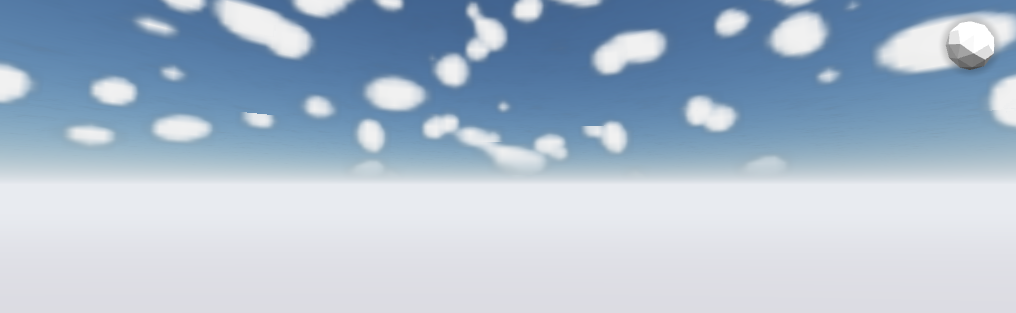
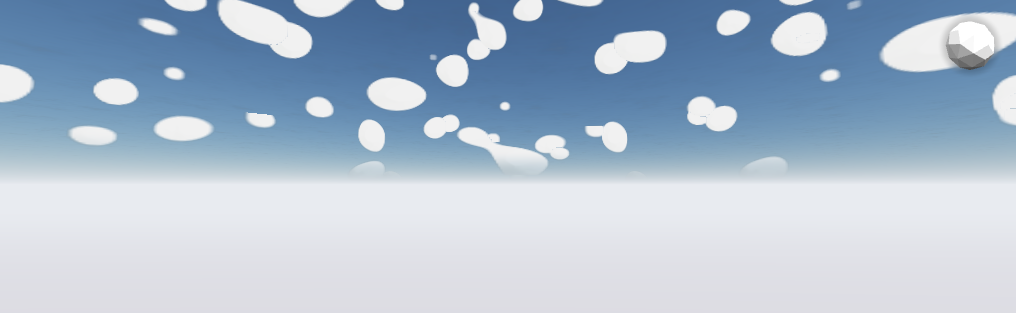
r18 review SHIP-WITH-FIXES applied (all P0/P1/P2 + cheap P3s). P0-1: env.normalizeLight dropped light.clouds.seed on EVERY load (schema kept it; main re-normalizes through env) — seed now clamps through like every cloud field + NEW E2E arm T4c (seed 137 survives a scene load; would have caught the b

diff --git a/editor/js/clouds.js b/editor/js/clouds.js
@@ -45,7 +45,7 @@ const satJs = x => Math.min(1, Math.max(0, x));
 // decorrelated; any translate of the stationary field is an equally-valid new pattern draw).
 function seedOffset(seed) {
   const s = Math.min(999, Math.max(0, Math.round(seed)));
-  return [s * 37.7192 % 128, s * 61.8384 % 128, s * 29.5504 % 128];
+  return [(s * 37.7192) % 128, (s * 61.8384) % 128, (s * 29.5504) % 128];
 }
 // R13 §3.4 remap — the denominator keeps its SIGN: inverted ranges like remap(hn, 1.0,
 // 0.30, 0.0, 1.0) (the cumulus "rounded top" profile) are intentional call sites; a
@@ -365,8 +365,9 @@ ${CL_ATMOS_CHUNK}
         // to ~2.6px; the 40px blobs averaged back into the invisible veil — the r18 it3 bug).
         // 16 texels/px on both axes caps the chain at level 4 (16px rows) where blobs live.
         vec2 gcap = vec2(16.0 / ${CL_SHEET_ATLAS_W.toFixed(1)}, 16.0 / (${CL_SHEET_ATLAS_W.toFixed(1)} * ${CL_SHEET_COUNT.toFixed(1)}));
-        vec2 gdx = clamp(dFdx(uv), -gcap, gcap);
-        vec2 gdy = clamp(dFdy(uv), -gcap, gcap);
+        vec2 gs = vec2(1.0, 0.96 / ${CL_SHEET_COUNT.toFixed(1)});   // review P2-1: suv.y scales uv.y by 0.96/6
+        vec2 gdx = clamp(dFdx(uv) * gs, -gcap, gcap);
+        vec2 gdy = clamp(dFdy(uv) * gs, -gcap, gcap);
         vec4 sh = textureGrad(uSheetAtlas, suv, gdx, gdy);
         float aS = sh.a;
         if (aS < 0.004) continue;
@@ -594,26 +595,31 @@ export function createCloudLayer({ renderer, sky }) {
       // (measured: effective 18% rendered as an invisible ~5/255 veil even with the textureGrad
       // clamp). Real scattered cumulus = FEW BIG solid blobs: blur, then threshold -> a few
       // large islands whose size survives the mip chain. Two wrapped box passes ~= triangular.
-      const RB = 10;
+      // running-sum sliding window (review P1-2: the naive 21-tap box x2 passes x2 axes cost
+      // ~150-380ms/build and janked the coverage slider; this is O(1)/px per axis)
+      const RB = 10, WIN = 2 * RB + 1;
       let blurred = field;
       for (let pass = 0; pass < 2; pass++) {
+        const outH = new Float32Array(W * W);
+        for (let y = 0; y < W; y++) {
+          const row = y * W;
+          let acc = 0;
+          for (let k = -RB; k <= RB; k++) acc += blurred[row + ((k + W) % W)];
+          for (let x = 0; x < W; x++) {
+            outH[row + x] = acc / WIN;
+            acc += blurred[row + ((x + RB + 1) % W)] - blurred[row + ((x - RB + W) % W)];
+          }
+        }
         const out = new Float32Array(W * W);
-        for (let y = 0; y < W; y++) for (let x = 0; x < W; x++) {
+        for (let x = 0; x < W; x++) {
           let acc = 0;
-          for (let k = -RB; k <= RB; k++) {
-            acc += blurred[y * W + ((x + k + W) % W)];
+          for (let k = -RB; k <= RB; k++) acc += outH[((k + W) % W) * W + x];
+          for (let y = 0; y < W; y++) {
+            out[y * W + x] = acc / WIN;
+            acc += outH[((y + RB + 1) % W) * W + x] - outH[((y - RB + W) % W) * W + x];
           }
-          out[y * W + x] = acc / (2 * RB + 1);
         }
-        const out2 = new Float32Array(W * W);
-        for (let y = 0; y < W; y++) for (let x = 0; x < W; x++) {
-          let acc = 0;
-          for (let k = -RB; k <= RB; k++) {
-            acc += out[((y + k + W) % W) * W + x];
-          }
-          out2[y * W + x] = acc / (2 * RB + 1);
-        }
-        blurred = out2;
+        blurred = out;
       }
       // histogram threshold at the (1-c_s) quantile of the ACTUAL (blurred) field
       const sorted = Float32Array.from(blurred).sort();
@@ -677,6 +683,7 @@ export function createCloudLayer({ renderer, sky }) {
     stats.composite = 1 - stats.composite;
     lastSheetsStats = stats;
     ctx.putImageData(img, 0, 0);
+    const prevTex = sheetAtlas;   // review P2-3: dispose the previous atlas (mip chain ~2MB VRAM leaked per rebuild)
     const tex = new THREE.CanvasTexture(canvas);
     tex.wrapS = tex.wrapT = THREE.RepeatWrapping;
     tex.minFilter = THREE.LinearMipmapLinearFilter;   // r18: mipmaps + the textureGrad texel clamp
@@ -685,6 +692,13 @@ export function createCloudLayer({ renderer, sky }) {
     tex.colorSpace = THREE.NoColorSpace;
     sheetAtlas = tex;
     uniforms.uSheetAtlas.value = tex;
+    prevTex?.dispose();
+  }
+
+  let sheetsTimer = null;                              // review P1-2: debounce (coalesce slider-tick rebuilds)
+  function scheduleSheets() {
+    if (sheetsTimer !== null) return;
+    sheetsTimer = setTimeout(() => { sheetsTimer = null; buildSheets(); }, 120);
   }
 
   // ---- state ----
@@ -743,12 +757,12 @@ export function createCloudLayer({ renderer, sky }) {
     if (typeof next.geoAltitudeM === 'number') geoAltitudeM = next.geoAltitudeM;
     if (p.fogColor) u.uFogColor.value.copy(p.fogColor);
     if (p.moonDir) u.uMoonDir.value.copy(p.moonDir);
-    // r13 audit P2: the layered atlas bakes coverage/density at build time — rebuild when they
-    // change in layered mode (CPU-side 256xN, ~2-5 ms; the sliders stay live)
+    // r13 audit P2 (perf re-benchmarked r18): the atlas bakes coverage/density/seed at build
+    // time — rebuild when they change; the build is debounced (slider drags coalesce).
     currentSeed = next.seed;
     if (enabled && noiseCPU) {
       const sk = next.coverage.toFixed(4) + '|' + next.density.toFixed(4) + '|' + next.seed;
-      if (sk !== sheetsKey) { sheetsKey = sk; buildSheets(); }
+      if (sk !== sheetsKey) { sheetsKey = sk; scheduleSheets(); }   // review P1-2: debounced — slider drags fired a ~100ms+ build per input tick
     }
     return changed;
   }
@@ -766,7 +780,8 @@ export function createCloudLayer({ renderer, sky }) {
     twinMesh.visible = enabled;
     if (enabled && !shapeTex) {
       bakeNoise3D();                            // one-time renderer-level 128^3 bake
-      buildSheets();                            // layered fallback sheets from the same noise
+      buildSheets();                            // layered sheets from the same noise
+      sheetsKey = uniforms.uCoverage.value.toFixed(4) + '|' + uniforms.uDensity.value.toFixed(4) + '|' + currentSeed;   // review P1-2: setParams always follows on every enable path — don't build twice
     }
     if (enabled) windClock = performance.now(); // wind animates only while enabled
     else windClock = null;

diff --git a/editor/js/env.js b/editor/js/env.js
@@ -102,6 +102,7 @@ export function normalizeLight(l) {
       thicknessM: Number.isFinite(c.thicknessM) ? Math.min(4000, Math.max(200, c.thicknessM)) : 1200,
       cirrus: Number.isFinite(c.cirrus) ? Math.min(1, Math.max(0, c.cirrus)) : 0.15,
       windSpeed: Number.isFinite(c.windSpeed) ? Math.min(3, Math.max(0, c.windSpeed)) : 0.2,
+      seed: Number.isFinite(c.seed) ? Math.min(999, Math.max(0, Math.round(c.seed))) : 0,   // r18 review P0-1: schema kept it, this normalize dropped it on every load
     };
   }
   return out;
@@ -350,7 +351,10 @@ export function createEnvironment(scene, settings) {
     skyStyle = style === 'realistic' ? 'realistic' : 'classic';
     sky.visible = skyStyle === 'classic';
     if (skyStyle !== 'realistic' && scene.environment) scene.environment = null;  // drop IBL BEFORE the RT dispose
-    scene.environmentIntensity = 1;                                            // r18: restore three's default off-style
+    // r18 review P1-1: resetting to 1 here + the 0.30 restore living inside applyDaylight's
+    // memoized branch left the IBL at 1.0 when a key-identical applyDaylight followed (clicking
+    // the active style seg, re-opening the same scene). Set the STYLE-correct value directly.
+    scene.environmentIntensity = skyStyle === 'realistic' ? C.SKY_IBL_INTENSITY : 1;
     realistic.setEnabled(skyStyle === 'realistic');
     // P2: clouds are a realistic-sky feature — classic look stays byte-identical (mesh hidden,
     // twin removed, dome.renderOrder restored to -1 by setCloudTwin(null))

diff --git a/editor/js/const.js b/editor/js/const.js
@@ -90,7 +90,7 @@ export const C = {
   CLOUD_WEATHER_DARKEN: { clear: 0.0, cloudy: 0.0, overcast: 0.16, rain: 0.50, fog: 0.40 },
   CLOUD_COVERAGE_DEFAULT: 0.45,          // schema light.clouds.coverage default
   CLOUD_MODES: ['layered'],              // r18: procedural removed (unusably slow)
-  CLOUD_BUDGET_MS: 11,                   // auto-gate: plain+clouds − plain @1080p reference
+  // (r13 CLOUD_BUDGET_MS removed r18 — the budget auto-gate went with the procedural tier)
   // round 13 (HDR): tone mapping + bloom (editor/js/bloom.js — UnrealBloomPass recipe port).
   // BLOOM_MIPS: the mip-chain depth (bright pass + 5 h/v blur levels, starting at ½ res).
   BLOOM_MIPS: 5,

diff --git a/editor/js/ui.js b/editor/js/ui.js
@@ -596,7 +596,7 @@ function buildLightPopover(app) {
     const c = b.dataset.c;
     commit(() => {
       if (c === 'off') app.setClouds({ enabled: false });
-      else app.setClouds({ enabled: true, mode: c });
+      else app.setClouds({ enabled: true });   // r18 review P3: the mode field is dead (single mode)
     });
     render();
   });

diff --git a/scripts/r18_sky_e2e.py b/scripts/r18_sky_e2e.py
@@ -107,20 +107,22 @@ r3 = ab.eval_js(S, """(async function(){
   const c=app.env.clouds();
   return JSON.stringify({enabled: c.enabled, mode: app.light.clouds ? (app.light.clouds.mode ?? 'ABSENT') : 'ABSENT'});
 })()""")
-check("T1b procedural scene migrates to layered", '"mode":"ABSENT"' in str(r3) or '"mode":"layered"' in str(r3), str(r3))
+check("T1b procedural scene migrates to layered (enabled)", ('"mode":"ABSENT"' in str(r3) or '"mode":"layered"' in str(r3)) and '"enabled":true' in str(r3), str(r3))
 
 # ---------- T2/T3 weather coverage + instrumentation ----------
 stats = {}
 for wx in ["clear", "cloudy", "overcast", "rain", "fog"]:
-    r = ab.eval_js(S, f"""(function(){{
+    ab.eval_js(S, f"""(function(){{
       const a=window.__app; a.setSkyStyle('realistic'); a.setWeather('{wx}');
       a.setClouds({{enabled:true, coverage:0.45, seed:0}});
       a.env.clouds().setStatic(true);
       a.renderFrame();
-      return JSON.stringify(a.env.clouds()._debug.lastSheetsStats);
+      return 1;
     }})()""")
-    time.sleep(1.6)
-    stats[wx] = json.loads(str(r).replace("'", '"').replace('"{', "{").replace('}"', "}")) if isinstance(r, str) and r.startswith("{") else json.loads(json.dumps(r))
+    time.sleep(0.6)   # the atlas rebuild is debounced 120ms (review P1-2) — read AFTER it lands
+    r = ab.eval_js(S, "JSON.stringify(window.__app.env.clouds()._debug.lastSheetsStats)")
+    time.sleep(1.0)
+    stats[wx] = json.loads(str(r))
 anchors = {"clear": 0.18, "cloudy": 0.55, "overcast": 0.85, "rain": 0.90, "fog": 0.95}
 ok2 = all(abs(stats[w]["composite"] - anchors[w]) / anchors[w] < 0.15 for w in anchors)
 check("T2 weather->effective coverage (composite within 15% of anchor)",
@@ -129,13 +131,12 @@ ok3 = all(all(abs(m - stats[w]["cSheet"]) / stats[w]["cSheet"] < 0.15 for m in s
 check("T3 per-sheet means within 15% of c_s", ok3,
       " ".join(f"{w}:{np.mean(stats[w]['sheets']):.4f}/{stats[w]['cSheet']:.4f}" for w in anchors))
 # floors: rain at coverage 0.05 (user slider near zero) still >= 0.88
-r = ab.eval_js(S, """(function(){
+ab.eval_js(S, """(function(){
   const a=window.__app; a.setWeather('rain'); a.setClouds({coverage:0.05, seed:0});
-  a.env.clouds().setStatic(true); a.renderFrame();
-  return JSON.stringify(a.env.clouds()._debug.lastSheetsStats);
+  a.env.clouds().setStatic(true); a.renderFrame(); return 1;
 })()""")
-time.sleep(1.6)
-fr = json.loads(str(r)) if not str(r).startswith('"{') else json.loads(str(r)[1:-1])
+time.sleep(0.6)
+fr = json.loads(str(ab.eval_js(S, "JSON.stringify(window.__app.env.clouds()._debug.lastSheetsStats)")))
 check("T2b rain floor (user 0.05 -> composite >= 0.80)", fr["composite"] >= 0.80, f"composite={fr['composite']:.3f}")
 
 # ---------- T4 seed A/B ----------
@@ -147,10 +148,11 @@ r = ab.eval_js(S, """(function(){
 })()""")
 time.sleep(1.8)
 cap("r18_T4_seed0.png")
-r2 = ab.eval_js(S, "(function(){ const a=window.__app; a.setClouds({seed:137}); a.env.clouds().setStatic(true); a.renderFrame(); return JSON.stringify({seed: a.env.clouds()._debug.seed, st: a.env.clouds()._debug.lastSheetsStats.composite}); })()")
+r2 = ab.eval_js(S, "(function(){ const a=window.__app; a.setClouds({seed:137}); a.env.clouds().setStatic(true); a.renderFrame(); return 1; })()")
 time.sleep(1.8)
 cap("r18_T4_seed137.png")
-print("T4 state:", str(r)[:80], "->", str(r2)[:80], flush=True)
+r2b = ab.eval_js(S, "JSON.stringify({seed: window.__app.env.clouds()._debug.seed, st: window.__app.env.clouds()._debug.lastSheetsStats.composite})")
+print("T4 state:", str(r)[:80], "->", str(r2b)[:80], flush=True)
 d = np.abs(load("r18_T4_seed0.png") - load("r18_T4_seed137.png")).mean()
 check("T4a seed 0 vs 137 different pattern (mean|d| > 3)", d > 3.0, f"mean|d|={d:.2f}")
 # seed=0 == absent: reload the same scene without the seed field
@@ -162,7 +164,25 @@ r = ab.eval_js(S, """(function(){
 })()""")
 time.sleep(1.6)
 cap("r18_T4_noseed.png")
-check("T4b seed field absent == seed 0", '"seed":0' in str(r), str(r))
+check("T4b seed field absent == seed 0 (state)", '"seed":0' in str(r), str(r))
+d0 = np.abs(load("r18_T4_noseed.png") - load("r18_T4_seed0.png")).mean()
+check("T4b2 seed-absent render == seed-0 render (<=2.5 orbit-damping drift)", d0 <= 2.5, f"mean|d|={d0:.2f}")
+# T4c (review P0-1): the seed survives a scene LOAD (env.normalizeLight kept it)
+seeded = "/tmp/r18_seeded.json"
+base2 = json.load(open("/home/z/my-project/flick-3dEditor/editor/samples/synthetic_tracks.json"))
+base2["light"]["skyStyle"] = "realistic"
+base2["light"]["clouds"] = {"enabled": True, "coverage": 0.45, "seed": 137}
+with open(seeded, "w") as f:
+    json.dump(base2, f)
+os.system("cp /tmp/r18_seeded.json /home/z/my-project/public/editor/samples/r18_seeded.json")
+r4 = ab.eval_js(S, """(async function(){
+  const app=window.__app;
+  const res=await fetch('/editor/samples/r18_seeded.json');
+  app.loadSceneData(await res.json());
+  await new Promise(r=>setTimeout(r, 1400));
+  return JSON.stringify({seed: app.env.clouds()._debug.seed, enabled: app.env.clouds().enabled});
+})()""")
+check("T4c seed survives scene load (P0-1)", '"seed":137' in str(r4) and '"enabled":true' in str(r4), str(r4))
 
 # ---------- T5 moon ----------
 r = ab.eval_js(S, """(function(){
@@ -173,7 +193,7 @@ r = ab.eval_js(S, """(function(){
   return 'night';
 })()""")
 time.sleep(2.5)
-ab.eval_file(S, "/tmp/r18_aim.js")
+ab.eval_js(S, "(function(){ const a=window.__app; const l=a.light; const az=l.azimuthDeg*Math.PI/180, el=l.elevationDeg*Math.PI/180; const sx=Math.sin(az)*Math.cos(el), sy=Math.sin(el), sz=-Math.cos(az)*Math.cos(el); const rl=Math.hypot(-sz, sx); const rx=-sz/rl, rz=sx/rl; const moon=Array.of(-sx+rx*0.25, -sy, -sz+rz*0.25); const n=Math.hypot(moon[0],moon[1],moon[2]); const d=Array.of(moon[0]/n, moon[1]/n, moon[2]/n); const cam=a.camera; cam.position.set(-d[0]*40, -d[1]*40+1.6, -d[2]*40); a.orbit.target.set(cam.position.x+d[0]*60, cam.position.y+d[1]*60, cam.position.z+d[2]*60); a.renderFrame(); return 'aimed'; })()")
 time.sleep(1.5)
 cap("r18_T5_moon.png")
 img = load("r18_T5_moon.png")
@@ -266,8 +286,8 @@ check("T10 rain deck darker than overcast by > 15 luma", mo - mr > 15, f"overcas
 
 # ---------- T11 console ----------
 ab.eval_js(S, "(function(){ localStorage.removeItem('stage-finish'); return 1; })()")
-out = ab.run(S, "console")
-check("T11 console errors == 0", not str(out).strip() or "error" not in str(out).lower(), str(out)[:120])
+errs = ab.console_errors(S)
+check("T11 console errors == 0", not errs, str(errs)[:120])
 ab.close(S)
 
 fails = [n for n, ok, _ in RESULTS if not ok]

diff --git a/scripts/r18_review_fixes.py b/scripts/r18_review_fixes.py
@@ -1,0 +1,120 @@
+#!/usr/bin/env python3
+"""r18 review fixes for clouds.js (P1-2 perf, P2-3 leak, P3 nits) — run after P2-1 (applied separately)."""
+P = "/home/z/my-project/flick-3dEditor/editor/js/clouds.js"
+s = open(P).read()
+
+
+def sub1(old, new, tag):
+    global s
+    assert old in s, f"MISS [{tag}]"
+    assert s.count(old) == 1, f"NON-UNIQUE [{tag}] count={s.count(old)}"
+    s = s.replace(old, new)
+
+
+# P1-2a: running-sum sliding-window blur
+old_blur = """      const RB = 10;
+      let blurred = field;
+      for (let pass = 0; pass < 2; pass++) {
+        const out = new Float32Array(W * W);
+        for (let y = 0; y < W; y++) for (let x = 0; x < W; x++) {
+          let acc = 0;
+          for (let k = -RB; k <= RB; k++) {
+            acc += blurred[y * W + ((x + k + W) % W)];
+          }
+          out[y * W + x] = acc / (2 * RB + 1);
+        }
+        const out2 = new Float32Array(W * W);
+        for (let y = 0; y < W; y++) for (let x = 0; x < W; x++) {
+          let acc = 0;
+          for (let k = -RB; k <= RB; k++) {
+            acc += out[((y + k + W) % W) * W + x];
+          }
+          out2[y * W + x] = acc / (2 * RB + 1);
+        }
+        blurred = out2;
+      }"""
+new_blur = """      // running-sum sliding window (review P1-2: the naive 21-tap box x2 passes x2 axes cost
+      // ~150-380ms/build and janked the coverage slider; this is O(1)/px per axis)
+      const RB = 10, WIN = 2 * RB + 1;
+      let blurred = field;
+      for (let pass = 0; pass < 2; pass++) {
+        const outH = new Float32Array(W * W);
+        for (let y = 0; y < W; y++) {
+          const row = y * W;
+          let acc = 0;
+          for (let k = -RB; k <= RB; k++) acc += blurred[row + ((k + W) % W)];
+          for (let x = 0; x < W; x++) {
+            outH[row + x] = acc / WIN;
+            acc += blurred[row + ((x + RB + 1) % W)] - blurred[row + ((x - RB + W) % W)];
+          }
+        }
+        const out = new Float32Array(W * W);
+        for (let x = 0; x < W; x++) {
+          let acc = 0;
+          for (let k = -RB; k <= RB; k++) acc += outH[((k + W) % W) * W + x];
+          for (let y = 0; y < W; y++) {
+            out[y * W + x] = acc / WIN;
+            acc += outH[((y + RB + 1) % W) * W + x] - outH[((y - RB + W) % W) * W + x];
+          }
+        }
+        blurred = out;
+      }"""
+sub1(old_blur, new_blur, "P1-2a blur")
+
+# P2-3: dispose the previous atlas
+sub1("""    ctx.putImageData(img, 0, 0);
+    const tex = new THREE.CanvasTexture(canvas);""",
+     """    ctx.putImageData(img, 0, 0);
+    const prevTex = sheetAtlas;   // review P2-3: dispose the previous atlas (mip chain ~2MB VRAM leaked per rebuild)
+    const tex = new THREE.CanvasTexture(canvas);""", "P2-3a")
+sub1("""    sheetAtlas = tex;
+    uniforms.uSheetAtlas.value = tex;
+  }""",
+     """    sheetAtlas = tex;
+    uniforms.uSheetAtlas.value = tex;
+    prevTex?.dispose();
+  }""", "P2-3b")
+
+# P1-2c: setEnabled seeds sheetsKey (setParams always follows — don't build twice)
+sub1("""    if (enabled && !shapeTex) {
+      bakeNoise3D();                            // one-time renderer-level 128^3 bake
+      buildSheets();                            // layered fallback sheets from the same noise
+    }""",
+     """    if (enabled && !shapeTex) {
+      bakeNoise3D();                            // one-time renderer-level 128^3 bake
+      buildSheets();                            // layered sheets from the same noise
+      sheetsKey = uniforms.uCoverage.value.toFixed(4) + '|' + uniforms.uDensity.value.toFixed(4) + '|' + currentSeed;   // review P1-2: setParams always follows on every enable path — don't build twice
+    }""", "P1-2c")
+
+# P1-2b: debounce the slider-driven rebuilds
+sub1("""      if (sk !== sheetsKey) { sheetsKey = sk; buildSheets(); }
+    }
+    return changed;""",
+     """      if (sk !== sheetsKey) { sheetsKey = sk; scheduleSheets(); }   // review P1-2: debounced — slider drags fired a ~100ms+ build per input tick
+    }
+    return changed;""", "P1-2b")
+
+# stale comment (lives INSIDE setParams — 4-space indent)
+sub1("""    // r13 audit P2: the layered atlas bakes coverage/density at build time — rebuild when they
+    // change in layered mode (CPU-side 256xN, ~2-5 ms; the sliders stay live)""",
+     """    // r13 audit P2 (perf re-benchmarked r18): the atlas bakes coverage/density/seed at build
+    // time — rebuild when they change; the build is debounced (slider drags coalesce).""", "comment")
+
+# the debounce scheduler (before the state block)
+sub1("""  // ---- state ----
+  let enabled = false, staticMode = false;""",
+     """  let sheetsTimer = null;                              // review P1-2: debounce (coalesce slider-tick rebuilds)
+  function scheduleSheets() {
+    if (sheetsTimer !== null) return;
+    sheetsTimer = setTimeout(() => { sheetsTimer = null; buildSheets(); }, 120);
+  }
+
+  // ---- state ----
+  let enabled = false, staticMode = false;""", "scheduler")
+
+# P3: parenthesize seedOffset
+sub1("""  return [s * 37.7192 % 128, s * 61.8384 % 128, s * 29.5504 % 128];""",
+     """  return [(s * 37.7192) % 128, (s * 61.8384) % 128, (s * 29.5504) % 128];""", "seedOffset parens")
+
+open(P, "w").write(s)
+print("clouds.js review fixes applied")
